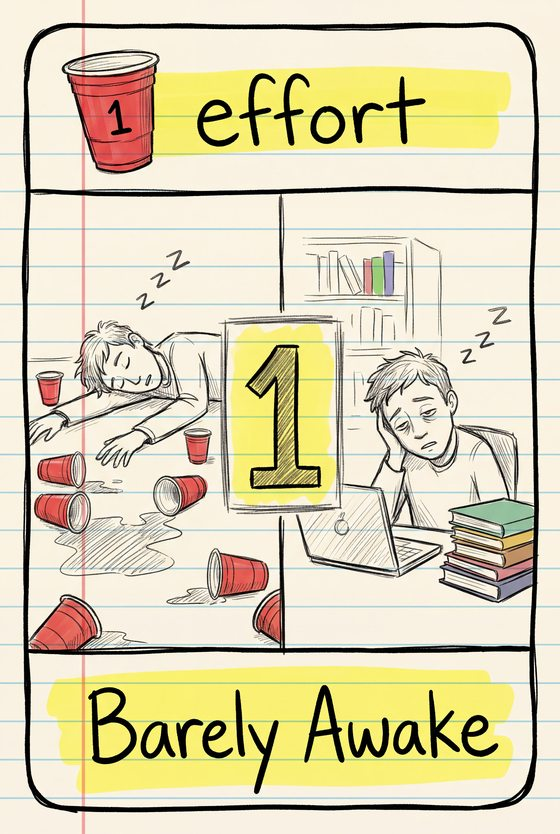
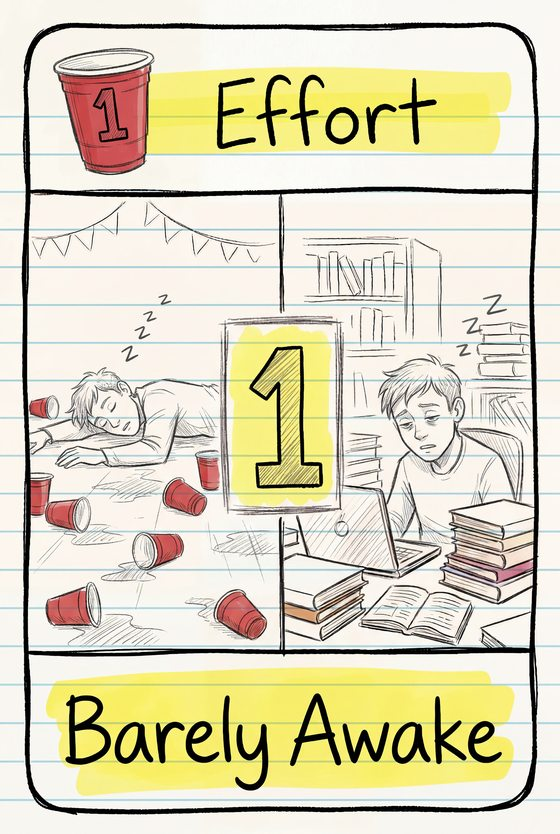
Fix new card playability + tracker accuracy + artwork updates
- buildPairGroups: add cram/cheat/colead pair groupings so semester break cards can be played to project and party pile
- renderGameHeader/renderPlayerStatus: replace raw effort reduce with computePileTotal + effects so Cram bonuses and Cheat penalties show in the effort bar and live score
- _partialRevealTotal: accept effects param, apply Cram/Cheat bonuses to running reveal counter
- revealPhase: pass cramCount/cheatCount effects to _partialRevealTotal
- Snitch/tie-investigation: only copy=9; cram/cheat/colead use base card value
- ai.js: fix inferPartyVal and _pickSnitchTarget for cram/cheat/colead types; play_to_win epPairs now includes all non-copy types
- animQueue: fix extra credit image path to new artwork
- Artwork: update effort 1, effort 3, cram 2 to new designs (~106-125KB)

diff --git a/js/renderer.js b/js/renderer.js
@@ -82,6 +82,23 @@ function failPipsHTML(count, limit = 5) {
 
 const $ = id => document.getElementById(id);
 
+// ── Compute cram/cheat effect counts across all piles ────
+// Mirrors engine.js _countTypeInAllPiles — used for display totals.
+function _computeEffects(state) {
+  let cramCount = 0, cheatCount = 0;
+  for (const c of state.projectPile) {
+    if (c.type === 'cram')  cramCount++;
+    if (c.type === 'cheat') cheatCount++;
+  }
+  for (const p of Object.values(state.players)) {
+    for (const c of p.partyPile) {
+      if (c.type === 'cram')  cramCount++;
+      if (c.type === 'cheat') cheatCount++;
+    }
+  }
+  return { cramCount, cheatCount };
+}
+
 // ── Resolve image key for any card type ──────────────────
 function _cardImgKey(card) {
   if (card.type === 'cram')   return `cram${card.value}`;  // 'cram6' or 'cram2'
@@ -155,17 +172,22 @@ export function renderGameHeader(state) {
   const pipVal = $('effort-val');
   const isPlaying = state.phase === 'PLAYING';
   if (pip)    pip.classList.toggle('unknown', isPlaying);
-  if (pipVal) pipVal.textContent = isPlaying ? '?' : String(
-    state.projectPile.reduce((s, c) => s + (c.revealed && c.type === 'effort' ? c.value : 0), 0)
-  );
+  if (pipVal) {
+    if (isPlaying) {
+      pipVal.textContent = '?';
+    } else {
+      const revPile = state.projectPile.filter(c => c.revealed);
+      pipVal.textContent = String(computePileTotal(revPile, _computeEffects(state)));
+    }
+  }
 
-  // Prominent effort bar
+  // Prominent effort bar — use computePileTotal so Cram/Cheat bonuses show correctly
   if (isPlaying) {
     _updateEffortBar(0, true);
   } else {
-    const total = state.projectPile.reduce(
-      (s, c) => s + (c.revealed && c.type === 'effort' ? c.value : 0), 0
-    );
+    const revealedPile = state.projectPile.filter(c => c.revealed);
+    const effects      = _computeEffects(state);
+    const total        = computePileTotal(revealedPile, effects);
     _updateEffortBar(total, false);
   }
 
@@ -315,6 +337,36 @@ function buildPairGroups(hand) {
         break;
       }
     }
+  }
+
+  // cram pairs (6+2 = 8)
+  const crams = hand.filter(c => c.type === 'cram' && !used.has(c.id));
+  for (let i = 0; i < crams.length; i++) {
+    if (used.has(crams[i].id)) continue;
+    for (let j = i + 1; j < crams.length; j++) {
+      if (!used.has(crams[j].id) && crams[i].value + crams[j].value === 8) {
+        pairs.push([crams[i], crams[j]]);
+        used.add(crams[i].id);
+        used.add(crams[j].id);
+        break;
+      }
+    }
+  }
+
+  // cheat pairs (5+5)
+  const cheats = hand.filter(c => c.type === 'cheat' && !used.has(c.id));
+  if (cheats.length >= 2) {
+    pairs.push([cheats[0], cheats[1]]);
+    used.add(cheats[0].id);
+    used.add(cheats[1].id);
+  }
+
+  // colead pairs (4+4)
+  const coleads = hand.filter(c => c.type === 'colead' && !used.has(c.id));
+  if (coleads.length >= 2) {
+    pairs.push([coleads[0], coleads[1]]);
+    used.add(coleads[0].id);
+    used.add(coleads[1].id);
   }
 
   // any unpaired cards (shouldn't happen in normal play)
@@ -711,7 +763,15 @@ export function renderPlayerStatus(state, humanId) {
   }
 
   // Live score: party pile total + extra credit bonuses (same formula as final score)
-  const partyScore = computePileTotal(p.partyPile || []);
+  // Count cram/cheat only across party piles (project pile not yet scored)
+  let _cramC = 0, _cheatC = 0;
+  for (const pid of state.playerOrder) {
+    for (const c of state.players[pid].partyPile) {
+      if (c.type === 'cram')  _cramC++;
+      if (c.type === 'cheat') _cheatC++;
+    }
+  }
+  const partyScore = computePileTotal(p.partyPile || [], { cramCount: _cramC, cheatCount: _cheatC });
   const ecBonus    = (p.extraCredits || 0) * 3;
   const cleanBonus = (p.individualFails || 0) === 0 ? (p.extraCredits || 0) * 2 : 0;
   const liveScore  = state.phase === 'GAMEOVER'
@@ -748,9 +808,9 @@ export function renderSnitchPanel(state, humanId) {
   panel.style.display = '';
 
   // Human's own party card value
-  // Copy cards count as 9 for snitch comparisons (beat all effort cards 0-8)
+  // Only copy cards count as 9; cram/cheat/colead use their base value
   const myCard = p.partyPile[p.partyPile.length - 1];
-  const myVal  = myCard ? (myCard.type === 'effort' ? myCard.value : 9) : 0;
+  const myVal  = myCard ? (myCard.type === 'copy' ? 9 : myCard.value) : 0;
   const myDisp = myCard ? (myCard.type === 'copy' ? 'X2' : myCard.value) : '?';
 
   // Infer other active players' party cards from their project pile cards
@@ -764,13 +824,22 @@ export function renderSnitchPanel(state, humanId) {
     let inferredVal = 4;    // fallback for unrevealed cards
     let displayVal  = '?';
     if (projCard && projCard.revealed) {
-      if (projCard.type === 'effort') {
-        inferredVal = Math.max(0, 8 - projCard.value);
-        displayVal  = inferredVal;
-      } else {
-        // Copy project card → copy party card (snitch value 9)
+      if (projCard.type === 'copy') {
+        // copy project → copy party (snitch value 9)
         inferredVal = 9;
         displayVal  = 'X2';
+      } else if (projCard.type === 'effort') {
+        // effort: partner sums to 8
+        inferredVal = Math.max(0, 8 - projCard.value);
+        displayVal  = inferredVal;
+      } else if (projCard.type === 'cram') {
+        // cram6 → partner is cram2; cram2 → partner is cram6
+        inferredVal = projCard.value === 6 ? 2 : 6;
+        displayVal  = inferredVal;
+      } else {
+        // cheat(5+5) or colead(4+4): same value both cards
+        inferredVal = projCard.value;
+        displayVal  = inferredVal;
       }
     }
     const eligible = !alreadySnitched.includes(id);

diff --git a/js/ai.js b/js/ai.js
@@ -268,12 +268,12 @@ function _choosePair(state, playerId, player, pairs) {
 
       // Separate pairs by type using explicit loops (avoids any flat/filter edge cases)
       const cpPairs = [];   // copy+copy pairs
-      const epPairs = [];   // effort+effort pairs
+      const epPairs = [];   // non-copy pairs (effort, cram, cheat, colead)
       for (let pi = 0; pi < pairs.length; pi++) {
         const pa = pairs[pi][0];
         const pb = pairs[pi][1];
-        if (pa.type === 'copy' && pb.type === 'copy')     cpPairs.push(pairs[pi]);
-        else if (pa.type === 'effort' && pb.type === 'effort') epPairs.push(pairs[pi]);
+        if (pa.type === 'copy' && pb.type === 'copy')         cpPairs.push(pairs[pi]);
+        else if (pa.type !== 'copy' && pb.type !== 'copy')    epPairs.push(pairs[pi]);
       }
 
       // Helper: given a target card, find its pair and route it to project
@@ -520,8 +520,8 @@ function _actionVote(state, playerId, player) {
 
 function _actionSnitch(state, playerId, player) {
   const myPartyTop = player.partyPile[player.partyPile.length - 1];
-  // Copy cards count as 9 for snitch (beat all effort cards 0-8)
-  const myVal      = myPartyTop ? (myPartyTop.type === 'effort' ? myPartyTop.value : 9) : 0;
+  // Only copy counts as 9; cram/cheat/colead use base value
+  const myVal      = myPartyTop ? (myPartyTop.type === 'copy' ? 9 : myPartyTop.value) : 0;
 
   // Collect eligible targets (not already snitched this turn)
   const alreadySnitched = state.snitchedThisTurn || [];
@@ -531,8 +531,12 @@ function _actionSnitch(state, playerId, player) {
   // Helper: infer a player's party card value from their revealed project card
   const inferPartyVal = id => {
     const proj = state.projectPile.find(c => c.playerId === id);
-    if (!proj || !proj.revealed) return 4;      // unknown — use midpoint estimate
-    return proj.type === 'effort' ? Math.max(0, 8 - proj.value) : 9;  // copy → 9
+    if (!proj || !proj.revealed) return 4;           // unknown — use midpoint estimate
+    if (proj.type === 'copy')   return 9;            // copy → party copy = 9
+    if (proj.type === 'cram')   return proj.value === 6 ? 2 : 6;  // complementary cram
+    if (proj.type === 'cheat')  return 5;            // cheat5 + cheat5
+    if (proj.type === 'colead') return 4;            // colead4 + colead4
+    return Math.max(0, 8 - proj.value);              // effort: sums to 8
   };
 
   // ── Play To Win: deterministic probability from inferred cards ──
@@ -553,8 +557,13 @@ function _actionSnitch(state, playerId, player) {
   for (const id of others) {
     const proj = state.projectPile.find(c => c.playerId === id);
     if (proj && proj.revealed) {
-      // Revealed card: use exact inferred value (copy counts as 9)
-      const inferred = proj.type === 'effort' ? Math.max(0, 8 - proj.value) : 9;
+      // Revealed card: use exact inferred party value
+      let inferred;
+      if (proj.type === 'copy')        inferred = 9;
+      else if (proj.type === 'cram')   inferred = proj.value === 6 ? 2 : 6;
+      else if (proj.type === 'cheat')  inferred = 5;
+      else if (proj.type === 'colead') inferred = 4;
+      else                             inferred = Math.max(0, 8 - proj.value);
       if (inferred > myVal)       confirmedAbove += 1;
       else if (inferred === myVal) confirmedEqual += 1;
     } else {
@@ -595,7 +604,11 @@ function _pickSnitchTarget(state, playerId, player, others) {
     const projCard = state.projectPile.find(c => c.playerId === id);
     let inferred = 4; // default estimate for unrevealed cards
     if (projCard && projCard.revealed) {
-      inferred = projCard.type === 'effort' ? Math.max(0, 8 - projCard.value) : 9;
+      if (projCard.type === 'copy')        inferred = 9;
+      else if (projCard.type === 'cram')   inferred = projCard.value === 6 ? 2 : 6;
+      else if (projCard.type === 'cheat')  inferred = 5;
+      else if (projCard.type === 'colead') inferred = 4;
+      else                                 inferred = Math.max(0, 8 - projCard.value);
     }
     if (inferred > bestVal) { bestVal = inferred; bestId = id; }
   }

diff --git a/js/engine.js b/js/engine.js
@@ -468,11 +468,9 @@ export function playPair(state, { playerId, projectCardId, partyCardId }) {
 }
 
 // ── Partial reveal total (no wrap-around for trailing copy) ──
-// Used during intermediate reveals so the counter accurately shows
-// only what has been determined. A trailing copy card means the
-// ×2 multiplier is pending — it will apply to the NEXT card when
-// revealed (or to the first card if it's the final pile card).
-function _partialRevealTotal(pile) {
+// Used during intermediate reveals. Accepts optional effects for
+// Cram/Cheat bonuses so the running counter is accurate.
+function _partialRevealTotal(pile, effects = {}) {
   let pendingMult = 1;
   let total       = 0;
   for (const card of pile) {
@@ -480,7 +478,15 @@ function _partialRevealTotal(pile) {
     if (card.type === 'copy') {
       pendingMult *= 2;
     } else {
-      total      += card.value * pendingMult;
+      let val = card.value;
+      if (card.type === 'cram') {
+        const otherCrams = Math.max(0, (effects.cramCount || 0) - 1);
+        val = val + otherCrams;
+      } else if (card.type === 'cheat') {
+        const otherCheats = Math.max(0, (effects.cheatCount || 0) - 1);
+        val = val - 2 * otherCheats;
+      }
+      total      += val * pendingMult;
       pendingMult = 1;
     }
   }
@@ -506,12 +512,17 @@ export function revealPhase(state) {
 
   // Reveal all except the last unrevealed card
   const toReveal = unrevealed.slice(0, -1);
+  // Pre-compute Cram/Cheat effect counts (counts are fixed; pass to partial total)
+  const revEffects = {
+    cramCount:  _countTypeInAllPiles('cram',  state),
+    cheatCount: _countTypeInAllPiles('cheat', state),
+  };
   for (const card of toReveal) {
     card.revealed = true;
     // Use forward-only partial total so copy cards don't prematurely
     // wrap to multiply an earlier card — the ×2 visually applies to
     // the next card revealed, not the first card in the pile.
-    const partialTotal = _partialRevealTotal(state.projectPile);
+    const partialTotal = _partialRevealTotal(state.projectPile, revEffects);
     events.push(evt('CARD_REVEALED', { card, runningTotal: partialTotal, target: state.projectTarget }));
     events.push(evt('EFFORT_UPDATED', { total: partialTotal, target: state.projectTarget }));
   }
@@ -750,8 +761,9 @@ function _tallyVotes(state, existingEvents) {
     // TIE — investigation: compare top party pile cards
     const aTop = state.players[accusedId].partyPile[state.players[accusedId].partyPile.length - 1];
     const lTop = state.players[leaderId ].partyPile[state.players[leaderId ].partyPile.length - 1];
-    const aVal = aTop ? (aTop.type === 'effort' ? aTop.value : 0) : -1;
-    const lVal = lTop ? (lTop.type === 'effort' ? lTop.value : 0) : -1;
+    // copy=9 for tie-break; cram/cheat/colead use base value; no card=-1
+    const aVal = aTop ? (aTop.type === 'copy' ? 9 : aTop.value) : -1;
+    const lVal = lTop ? (lTop.type === 'copy' ? 9 : lTop.value) : -1;
 
     if (aTop) aTop.revealed = true;
     if (lTop) lTop.revealed = true;
@@ -834,9 +846,9 @@ export function snitchTarget(state, { snitcherId, targetId }) {
   targetTop.revealed = true;
 
   const snitcherTop = snitcher.partyPile[snitcher.partyPile.length - 1];
-  // Copy cards count as 9 for snitch comparisons (beats every effort card 0-8)
-  const sVal = snitcherTop ? (snitcherTop.type === 'effort' ? snitcherTop.value : 9) : 0;
-  const tVal = targetTop.type === 'effort' ? targetTop.value : 9;
+  // Copy cards count as 9 (beats every effort 0-8); cram/cheat/colead use base value
+  const sVal = snitcherTop ? (snitcherTop.type === 'copy' ? 9 : snitcherTop.value) : 0;
+  const tVal = targetTop.type === 'copy' ? 9 : targetTop.value;
 
   events.push(evt('SNITCH_REVEALED', {
     snitcherId, targetId, targetCard: targetTop, snitcherValue: sVal,

diff --git a/js/main.js b/js/main.js
@@ -569,7 +569,7 @@ export function openBreakDrawOverlay() {
   overlay.innerHTML = `
     <div class="overlay-sheet">
       <div class="overlay-title">Draw a New Pair</div>
-      <div class="overlay-body">Choose one pair to add to your hand. You cannot pick the same pair twice.</div>
+      <div class="overlay-body">Choose one pair to add to your hand for the new semester.</div>
       <div class="overlay-actions">${btns}</div>
     </div>`;
 

diff --git a/js/animQueue.js b/js/animQueue.js
@@ -580,7 +580,7 @@ function _stepExtraCredit(ev, state) {
         slot.appendChild(credits);
       }
       const ecImg = document.createElement('img');
-      ecImg.src = './cards/other/ExtraCredit1.jpg';
+      ecImg.src = './cards/extra-credit.jpg';
       ecImg.alt = 'Extra Credit';
       ecImg.className = 'ec-pip-img anim-scale-in';
       credits.appendChild(ecImg);
